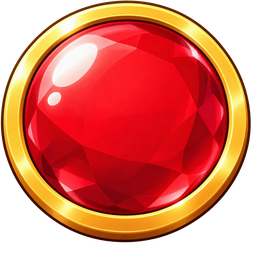
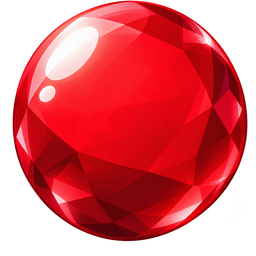
Safe seal: final lapis art; disk turns to each measured socket
New body/disk/gem sprites (gems without rims). Sockets on the drawn disk
are not exactly 120 degrees apart, so the disk pivots on their circumcenter
and turns 125 then 110 degrees to bring the next gem to the top; the break
spin lands on a full turn so the split halves match the sprite.

Claude-Session: https://claude.ai/code/session_011SM6jAozhV5f6ndTXzk3GM

diff --git a/Assets/_Project/Scripts/Grid/SealSafeView.cs b/Assets/_Project/Scripts/Grid/SealSafeView.cs
@@ -9,7 +9,7 @@ using UnityEngine.UI;
 /// renkli taş (kırmızı/sarı/yeşil kilit), üstteki kartuşta TEK sayaç. Mekanik SafeObstacleService'te;
 /// bu sınıf yalnız olaylarını oynatır:
 ///   • vuruş: sayaç "pop" + disk hafif titrer
-///   • kilit kapandı: taş yuvasına gömülüp grileşir; Ordered modda disk 120° döner, sıradaki taş tepeye
+///   • kilit kapandı: taş yuvasına gömülüp grileşir; Ordered modda disk döner, sıradaki taş tepeye
 ///     gelir, kartuş yeni renge/sayıya döner
 ///   • kasa kırıldı: disk hızla bir tur döner, ortadan ikiye ayrılıp yanlara kayar, gövde söner
 /// Sprite'lar Resources/SealSafe altında (gövde/disk tam kanvas — aşağıdaki oranlar o kanvasa göre).
@@ -20,16 +20,18 @@ public sealed class SealSafeView : MonoBehaviour
     private const string ArtPath = "SealSafe/";
 
     // Gövde kanvasına göre (UI y yukarı): disk yuvası merkezi ve disk boyu, kartuş.
-    private static readonly Vector2 DiskCenter = new Vector2(0.4992f, 0.4833f);
-    private const float DiskSize = 0.5619f;
-    private static readonly Vector2 DiskPivot = new Vector2(0.4992f, 0.5016f);   // disk kanvasında dönme merkezi
-    private static readonly Vector2 CounterCenter = new Vector2(0.4833f, 0.8549f);
-    private static readonly Vector2 CounterSize = new Vector2(0.42f, 0.16f);
+    private static readonly Vector2 DiskCenter = new Vector2(0.5024f, 0.4880f);
+    private const float DiskSize = 0.6097f;
+    // Disk kanvasında dönme merkezi = üç yuvadan eşit uzak nokta (yuvalar tam 120° aralıklı değil).
+    private static readonly Vector2 DiskPivot = new Vector2(0.4996f, 0.4947f);
+    private static readonly Vector2 CounterCenter = new Vector2(0.4944f, 0.8684f);
+    private static readonly Vector2 CounterSize = new Vector2(0.44f, 0.13f);
     // Disk kanvasına göre: taş yuvası yarıçapı ve taş boyu.
-    private const float SocketRadius = 0.2855f;
-    private const float GemSize = 0.287f;
-    // Sıradaki slotların açısı (derece, UI): tepe, sağ-alt, sol-alt. Disk +120° dönünce sağ-alt tepeye gelir.
-    private static readonly float[] SlotAngles = { 90f, -30f, 210f };
+    private const float SocketRadius = 0.2844f;
+    private const float GemSize = 0.236f;
+    // Sıradaki slotların açısı (derece, UI): tepe, sağ-alt, sol-alt (çizimden ölçülü). Disk, sıradaki
+    // slot tam tepeye gelecek kadar döner (125°, sonra 110°).
+    private static readonly float[] SlotAngles = { 90f, -35f, 215f };
 
     private static readonly Color32[] LockColors =
     {
@@ -58,7 +60,7 @@ public sealed class SealSafeView : MonoBehaviour
     private readonly Image[] gemSpent = new Image[3];
     private readonly int[] slotLock = { 0, 1, 2 };                       // slot → kilit index'i
 
-    private float baseAngle;          // 120 * kapanan kilit adımı (Ordered)
+    private float baseAngle;          // gösterilen slotu tepeye getiren disk açısı (Ordered)
     private float jiggleAngle;
     private int shownStep;            // diskin şu an gösterdiği adım
     private bool broken;
@@ -136,7 +138,7 @@ public sealed class SealSafeView : MonoBehaviour
         var crt = counter.rectTransform;
         crt.sizeDelta = new Vector2(side * CounterSize.x, side * CounterSize.y);
         crt.anchoredPosition = Vector2.zero;
-        counter.fontSize = side * 0.13f;
+        counter.fontSize = side * 0.11f;
     }
 
     /// GridSpawner çağırır: service'e bağla, kilit sırasını slotlara yerleştir, mevcut durumu çiz.
@@ -193,7 +195,7 @@ public sealed class SealSafeView : MonoBehaviour
             SetGemSpent(i, closed ? 1f : 0f);
         }
         shownStep = Ordered ? Mathf.Min(ClosedSteps(), slotLock.Length - 1) : 0;
-        baseAngle = 120f * shownStep;
+        baseAngle = AngleForStep(shownStep);
         jiggleAngle = 0f;
         ApplyDiskAngle();
         RefreshCounter();
@@ -311,11 +313,11 @@ public sealed class SealSafeView : MonoBehaviour
         SetGemSpent(slot, 1f);
     }
 
-    // Disk 120° döner (taş sürtünmesi: sona doğru yavaşlar, hafif geri yaylanır); kartuş yarıda takla atar.
+    // Disk sıradaki taşı tepeye getirir (taş sürtünmesi: sona doğru yavaşlar, hafif geri yaylanır); kartuş yarıda takla atar.
     private IEnumerator CoTurnToNext()
     {
         yield return new WaitForSeconds(0.1f);
-        float from = baseAngle, to = baseAngle + 120f;
+        float from = baseAngle, to = AngleForStep(Mathf.Min(shownStep + 1, slotLock.Length - 1));
         bool flipped = false;
         var crt = counter.rectTransform;
         for (float t = 0f; t < TurnSeconds; t += Time.deltaTime)
@@ -344,15 +346,17 @@ public sealed class SealSafeView : MonoBehaviour
     private IEnumerator CoBreak()
     {
         counter.text = "";
+        // En az ~300° hızlanarak döner ve tam tura (0°) oturur: yarımlar disk sprite'ıyla aynı açıda doğar.
         float from = baseAngle;
+        float to = Mathf.Ceil((from + 300f) / 360f) * 360f;
         for (float t = 0f; t < SpinSeconds; t += Time.deltaTime)
         {
             float k = t / SpinSeconds;
-            baseAngle = from + 360f * k * k;
+            baseAngle = Mathf.Lerp(from, to, k * k);
             ApplyDiskAngle();
             yield return null;
         }
-        baseAngle = from + 360f;
+        baseAngle = to;
         jiggleAngle = 0f;
         ApplyDiskAngle();
 
@@ -379,8 +383,7 @@ public sealed class SealSafeView : MonoBehaviour
         Destroy(gameObject);
     }
 
-    // Diskin bir yarısı: aynı sprite, yatay doldurma %50. Disk sprite'ı 120° simetrik olduğundan açısı
-    // sıfırlanabilir (taşlar ayrıca taşınır).
+    // Diskin bir yarısı: aynı sprite, yatay doldurma %50 (disk o an 0°'de; taşlar ayrıca taşınır).
     private RectTransform MakeHalf(Image.OriginHorizontal side, out CanvasGroup group)
     {
         var rt = NewImage("DiskHalf", body, diskImage.sprite, out var img);
@@ -427,6 +430,15 @@ public sealed class SealSafeView : MonoBehaviour
         transform.SetAsLastSibling();
         foreach (var t in GetComponentsInChildren<Transform>(true))
             t.gameObject.layer = overlay.gameObject.layer;
+    }
+
+    // Adım k'daki slotu tepeye (90°) getiren açı; hep ileri (saat yönünün tersine) döner.
+    private static float AngleForStep(int step)
+    {
+        float a = 0f;
+        for (int i = 1; i <= step && i < SlotAngles.Length; i++)
+            a += Mathf.Repeat(SlotAngles[i - 1] - SlotAngles[i], 360f);
+        return a;
     }
 
     private static float EaseOutBack(float k)
